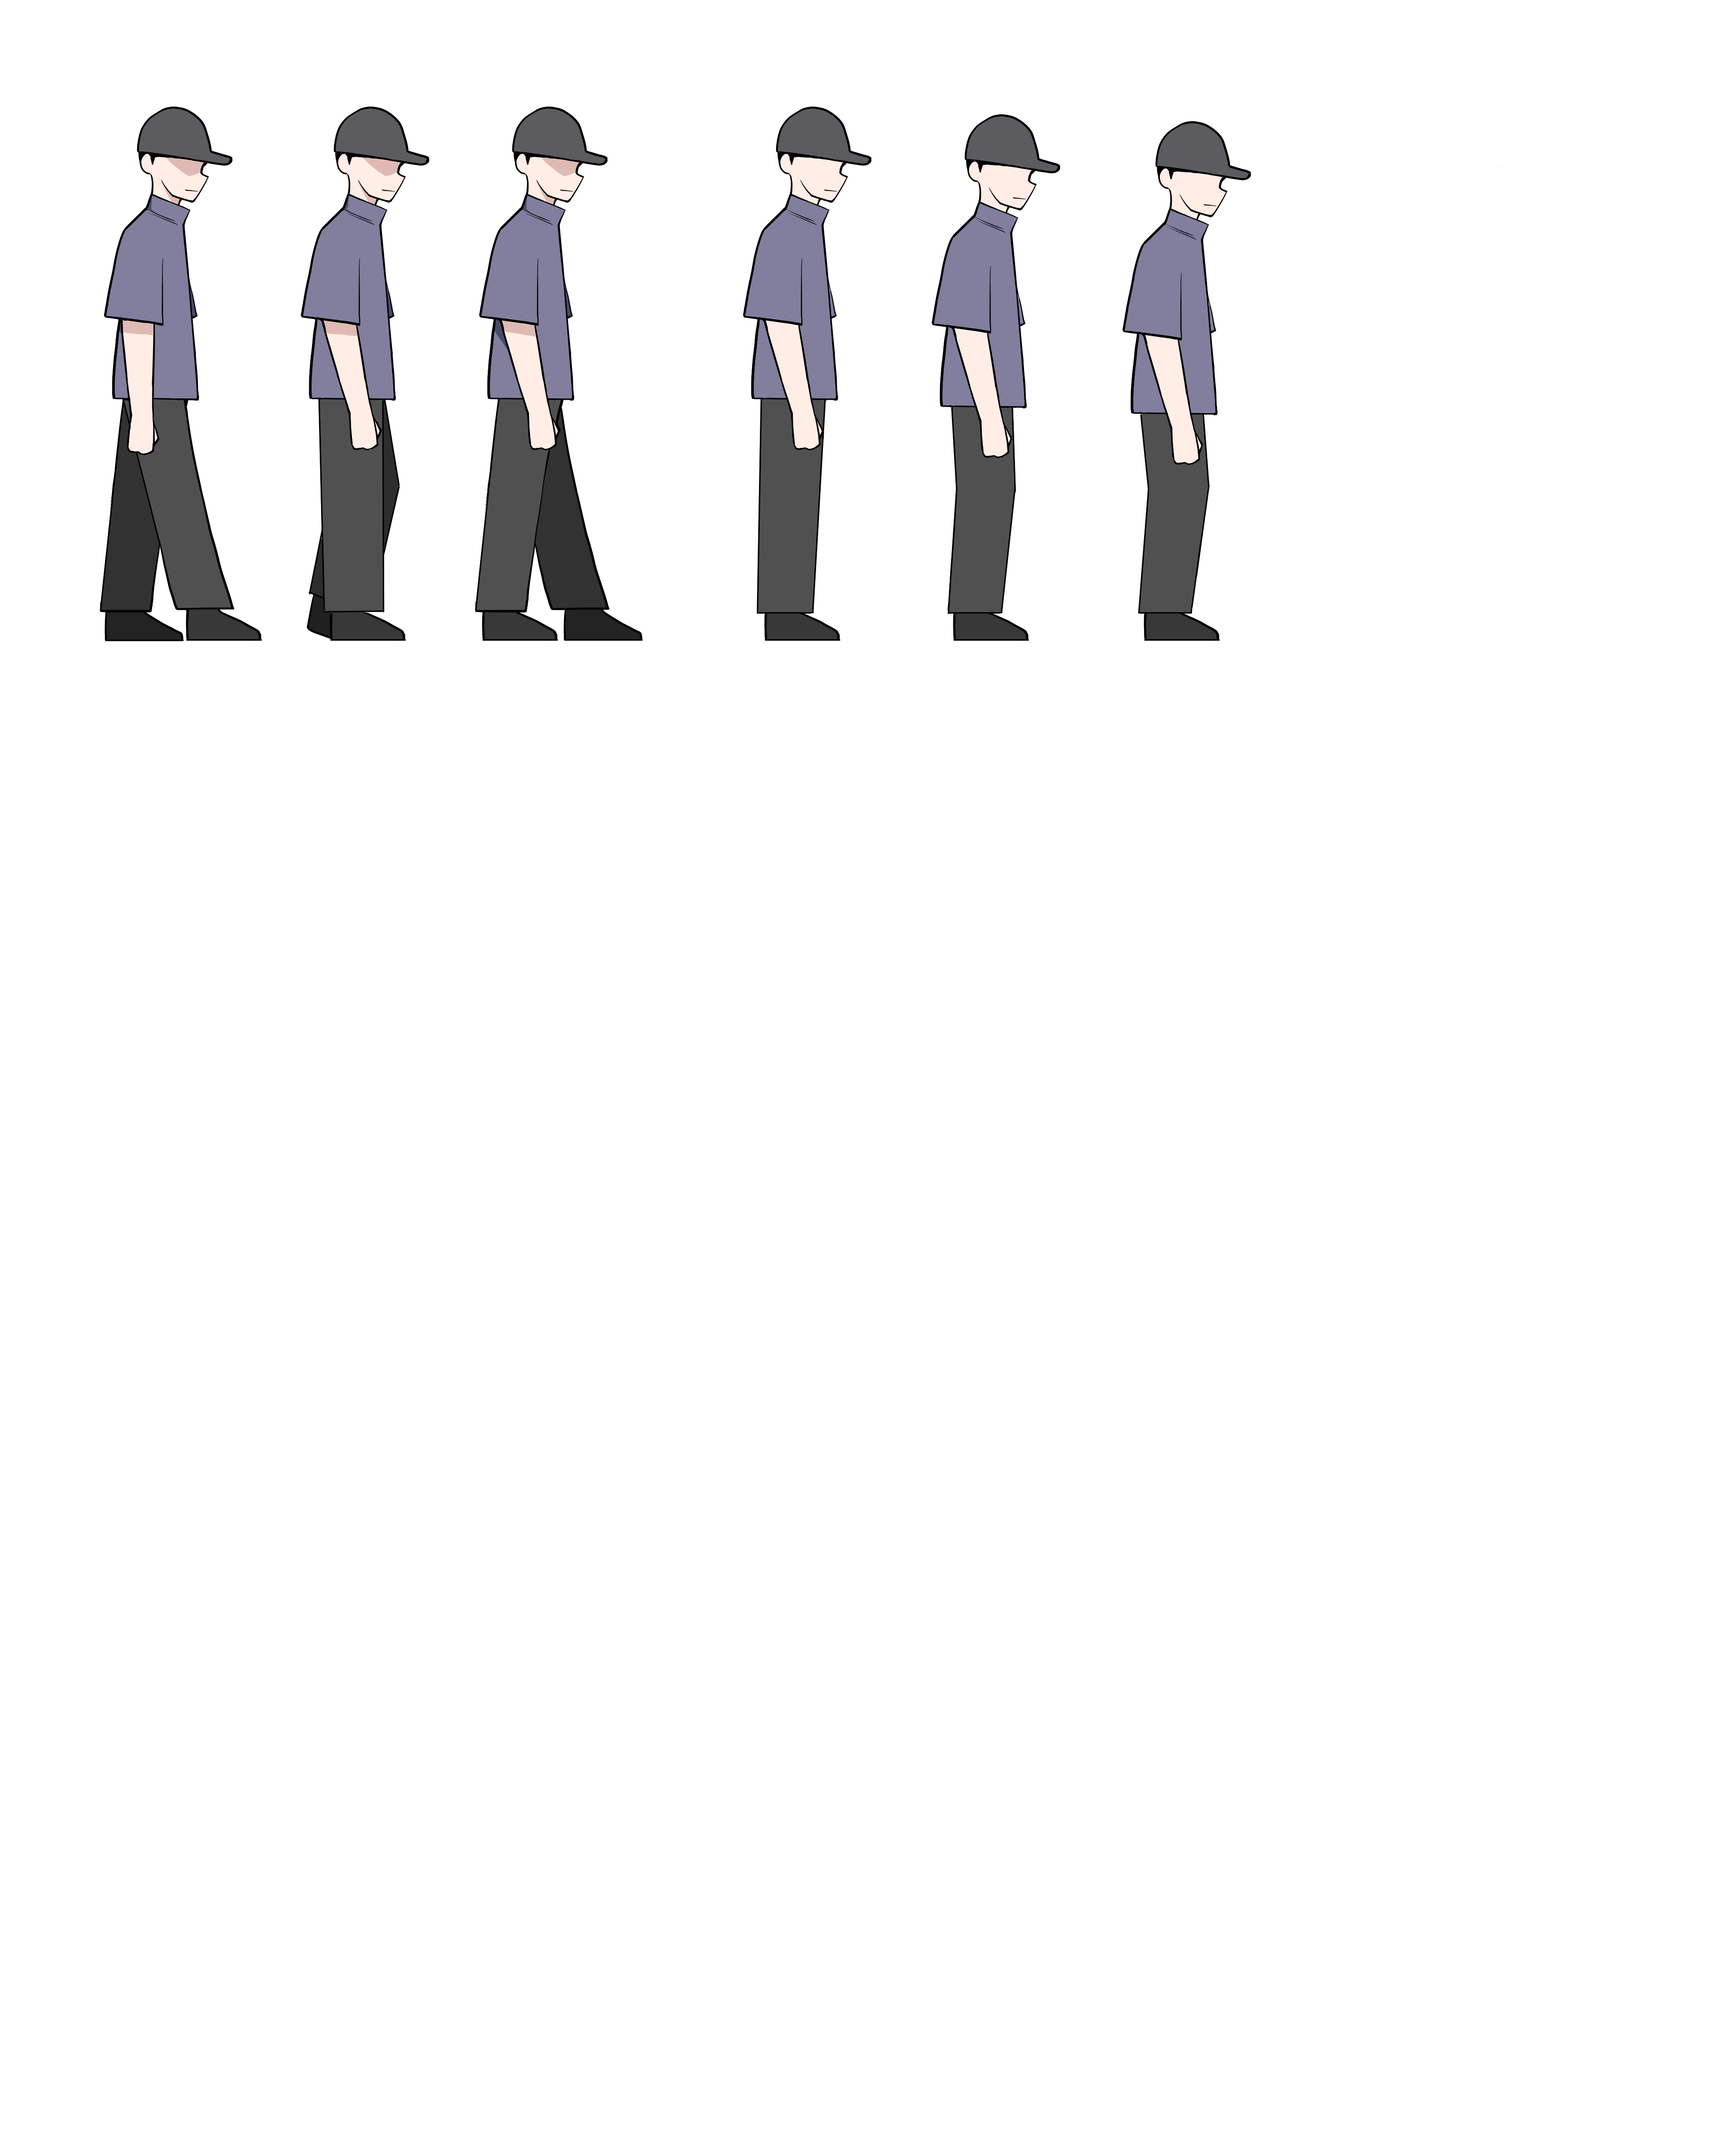
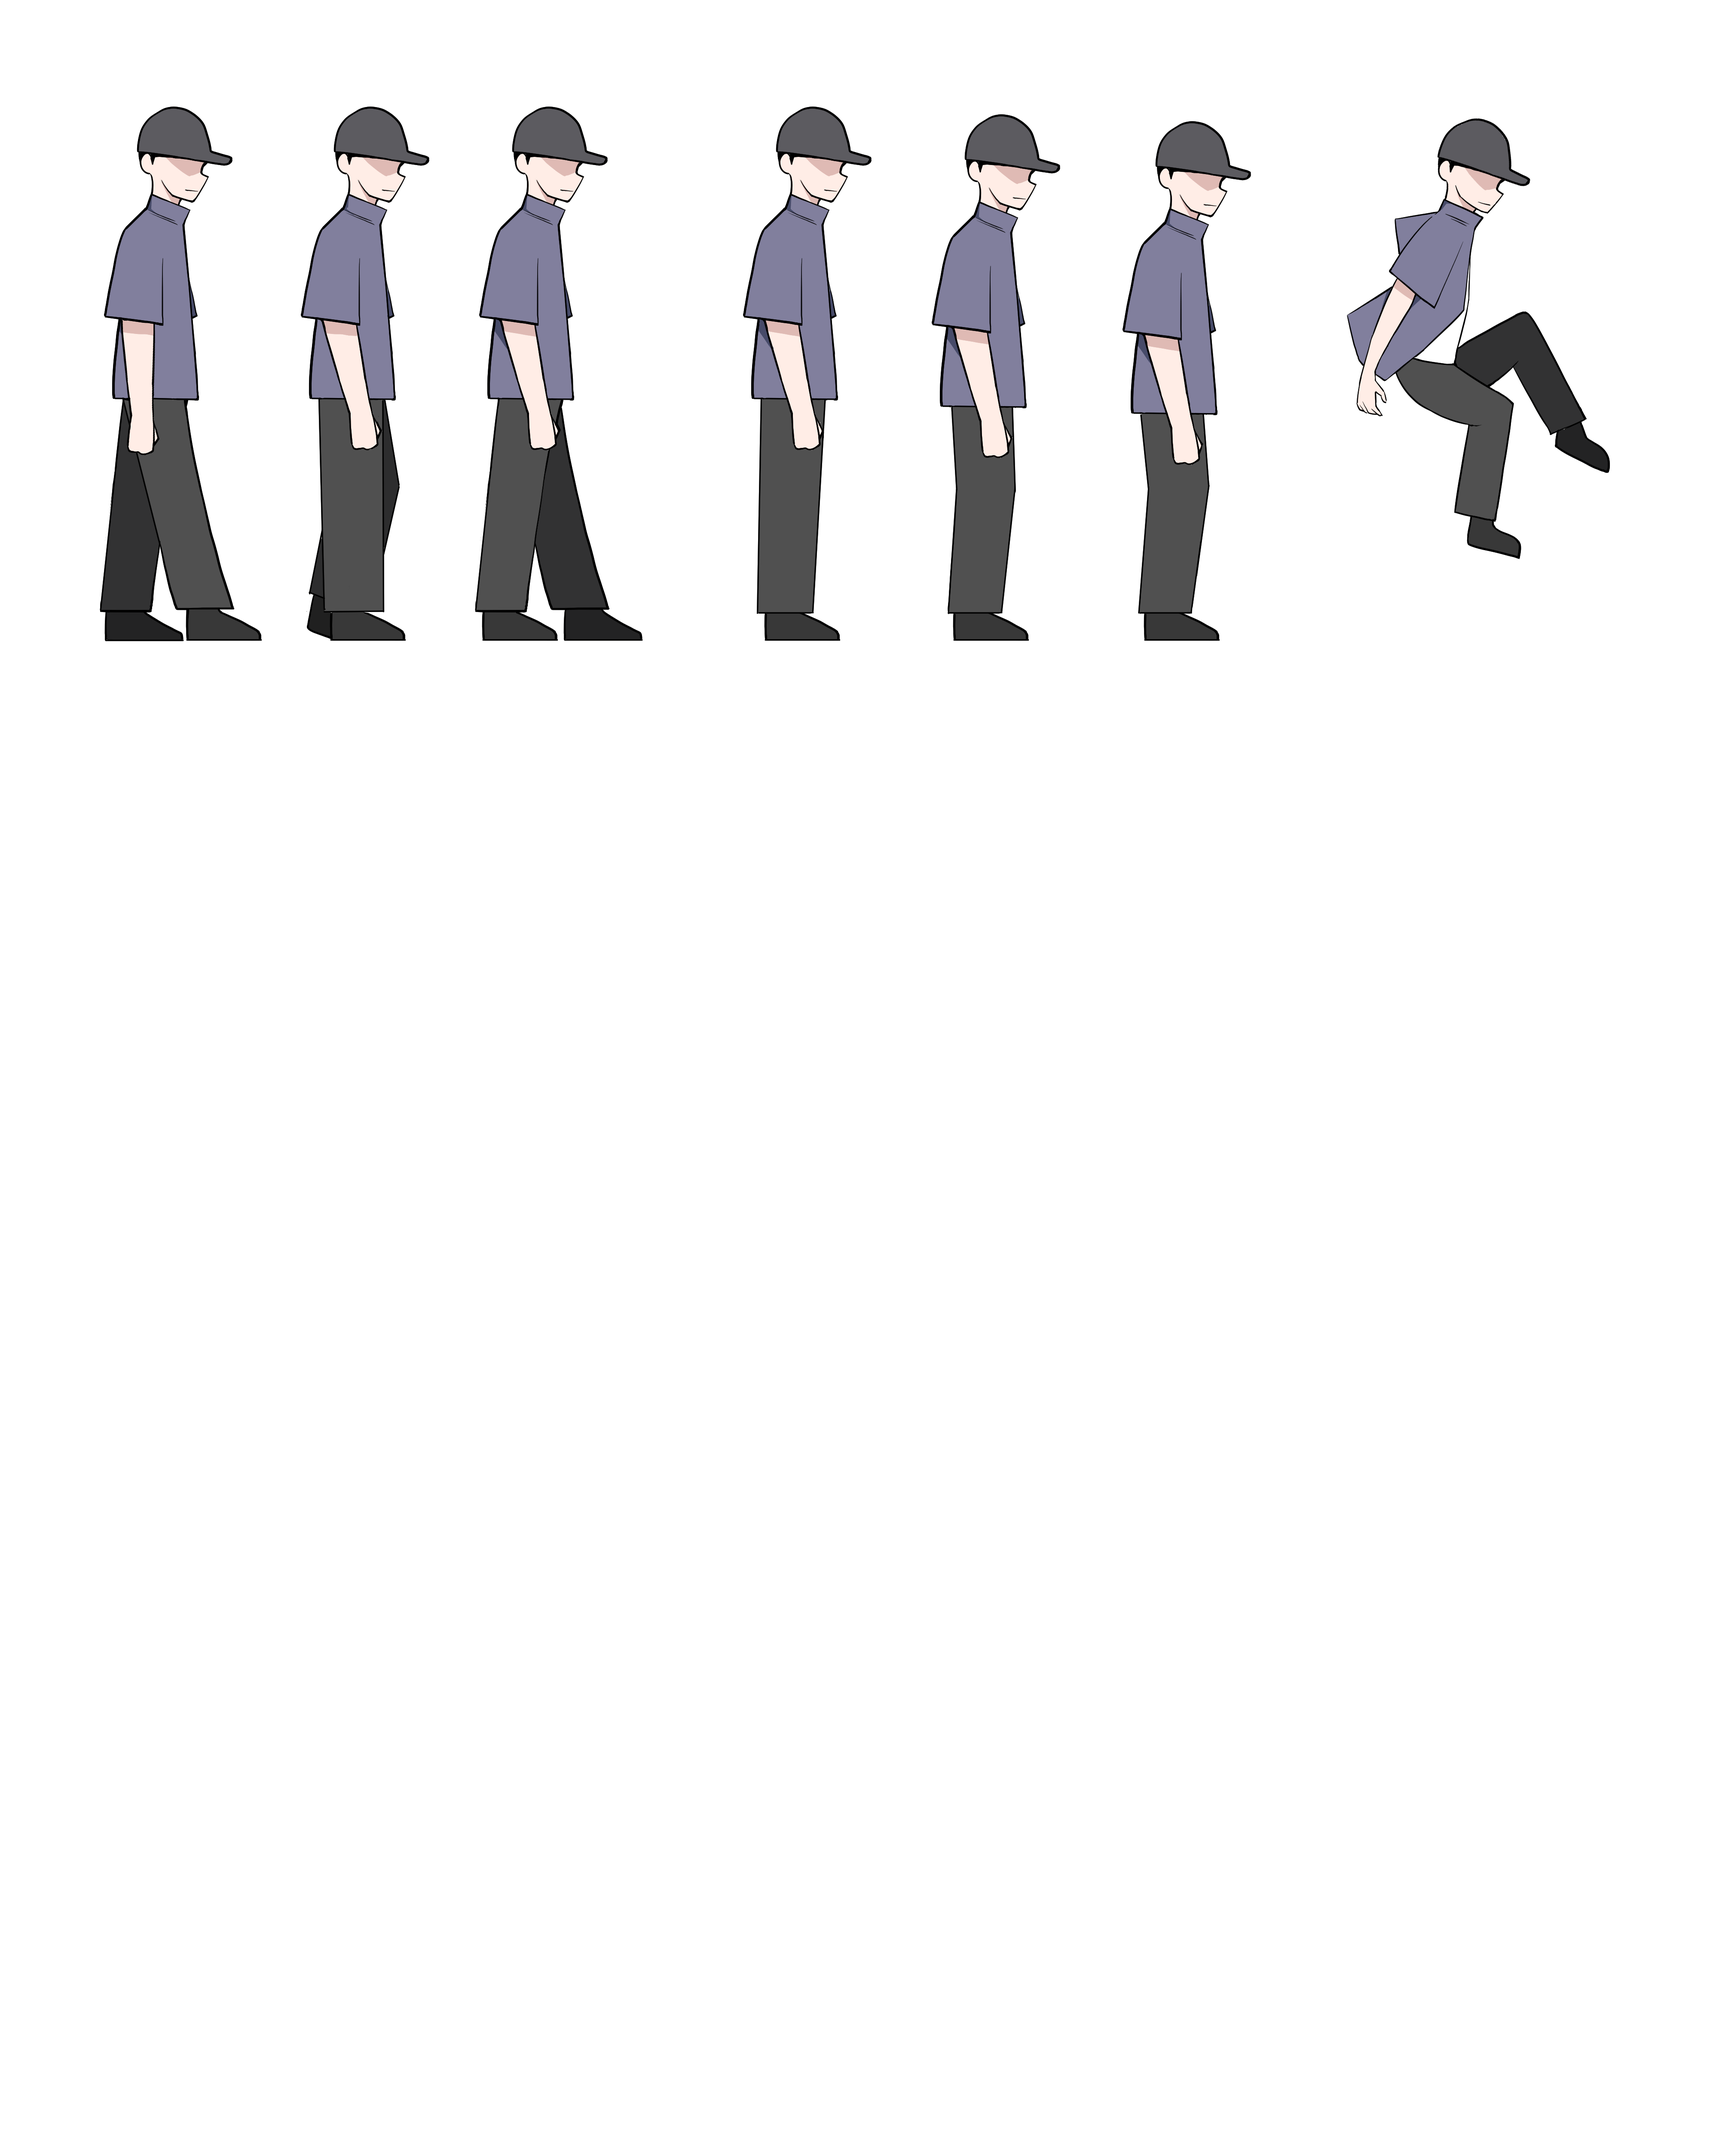
player movement added

diff --git a/Assets/Script/PlayerMovement.cs b/Assets/Script/PlayerMovement.cs
@@ -1,18 +1,83 @@
 using System.Collections;
 using System.Collections.Generic;
+using System.Threading;
 using UnityEngine;
 
 public class PlayerMovement : MonoBehaviour
 {
-    // Start is called before the first frame update
-    void Start()
+    public float speed = 5f;
+    public Animator animator;
+
+    private Rigidbody2D rb;
+    private bool isGrounded;
+
+    private void Start()
     {
-        
+        rb = GetComponent<Rigidbody2D>();
     }
 
     // Update is called once per frame
-    void Update()
+    void FixedUpdate()
+    {
+        HandleMovement();
+        HandleAnimations();
+
+        Debug.Log("Is Grounded: " + isGrounded);
+    }
+
+    private void HandleMovement()
+    {
+        if (Input.GetKey(KeyCode.A))
+        {
+            rb.velocity = new Vector2(-speed, rb.velocity.y);
+            transform.localScale = new Vector3(-1, 1, 1);
+        }
+        else if (Input.GetKey(KeyCode.D))
+        {
+            rb.velocity = new Vector2(speed, rb.velocity.y);
+            transform.localScale = new Vector3(1, 1, 1);
+        }
+        else
+        {
+            rb.velocity = new Vector2(0, rb.velocity.y);
+        }
+
+        if (Input.GetKeyDown(KeyCode.Space) && isGrounded)
+        {
+            rb.velocity = new Vector2(rb.velocity.x, speed);
+        }
+    }
+
+    private void HandleAnimations()
     {
 
+        if (rb.velocity.x != 0 && isGrounded)
+        {
+            animator.Play("Player_Walk");
+        }
+        else if (isGrounded)
+        {
+            animator.Play("Player_Idle");
+        }
+        else
+        {
+            animator.Play("Player_Jump");
+        }
+    }
+
+    private void OnTriggerStay2D(Collider2D collision)
+    {
+        if (collision.CompareTag("Ground"))
+        {
+            isGrounded = true;
+        }
+    }
+
+    private void OnTriggerExit2D(Collider2D collision)
+    {
+        if (collision.CompareTag("Ground"))
+        {
+            isGrounded = false;
+        }
     }
 }
